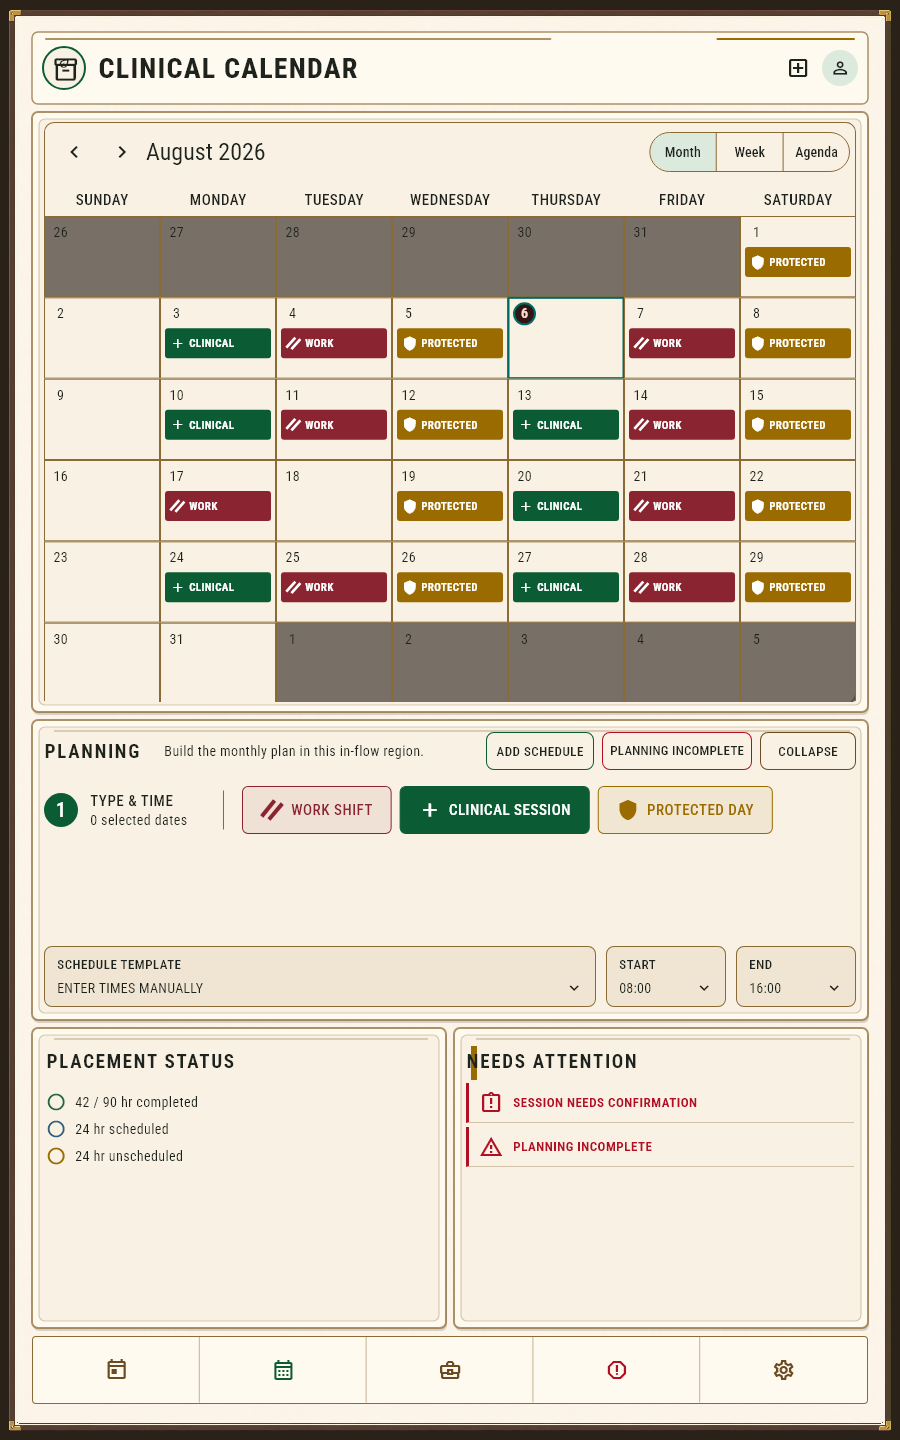
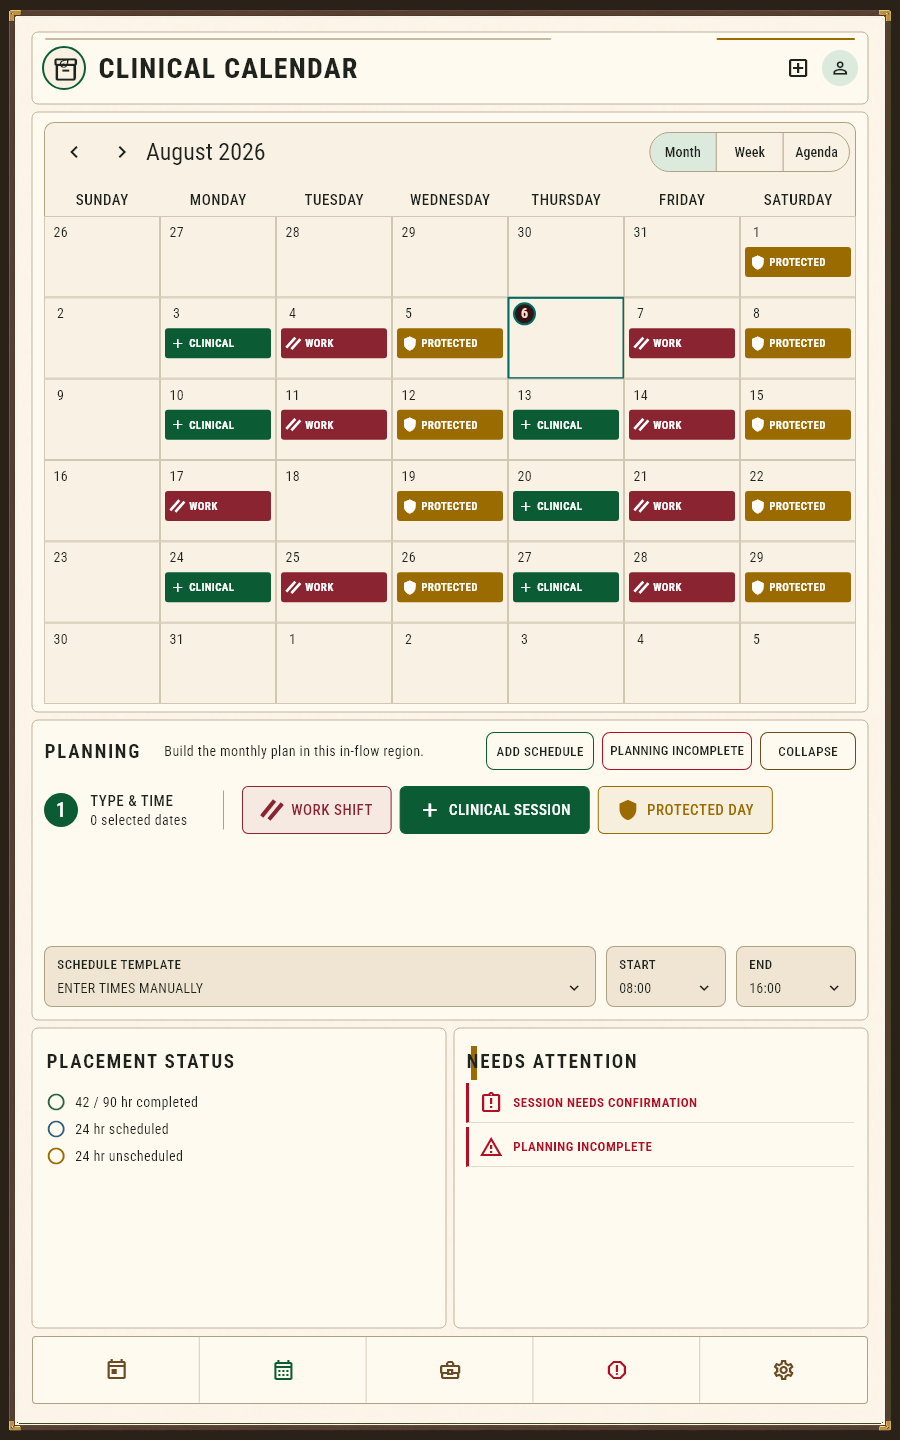
fix(theme): correct Field Archive border hierarchy

diff --git a/packages/clinical_calendar_presentation/lib/src/heritage_field_notes_shell.dart b/packages/clinical_calendar_presentation/lib/src/heritage_field_notes_shell.dart
@@ -133,7 +133,7 @@ final class HeritageFieldNotesApplicationShell extends StatelessWidget {
               return Stack(
                 children: [
                   const Positioned.fill(
-                    child: ColoredBox(color: HeritageFieldNotesColors.canvas),
+                    child: ColoredBox(color: HeritageFieldNotesColors.surface),
                   ),
                   Positioned.fromRect(
                     rect: resolveRegion(_heritageFieldNotesCrownRegion),
@@ -182,7 +182,7 @@ final class HeritageFieldNotesApplicationShell extends StatelessWidget {
                     rect: resolveRegion(_heritageFieldNotesInsightRegion),
                     child: _HeritageFieldNotesConsoleBay(
                       key: const Key('heritage-field-notes-insight-bay'),
-                      accent: _HeritageFieldNotesBayAccent.brass,
+                      accent: _HeritageFieldNotesBayAccent.forest,
                       shape: _HeritageFieldNotesBayShape.insight,
                       child: slots.insightRail,
                     ),
@@ -383,22 +383,26 @@ final class _HeritageFieldNotesArchiveChassisPainter extends CustomPainter {
         ).createShader(outer),
     );
 
-    canvas.drawRect(
+    final pageWindowRRect = RRect.fromRectAndRadius(
       pageWindow,
+      const Radius.circular(9),
+    );
+    canvas.drawRRect(
+      pageWindowRRect,
       Paint()
         ..color = darkestWalnut
         ..style = PaintingStyle.stroke
         ..strokeWidth = 4,
     );
-    canvas.drawRect(
-      pageWindow.deflate(3),
+    canvas.drawRRect(
+      RRect.fromRectAndRadius(pageWindow.deflate(3), const Radius.circular(7)),
       Paint()
         ..color = agedBrass
         ..style = PaintingStyle.stroke
         ..strokeWidth = 2.5,
     );
-    canvas.drawRect(
-      pageWindow.deflate(7),
+    canvas.drawRRect(
+      RRect.fromRectAndRadius(pageWindow.deflate(7), const Radius.circular(5)),
       Paint()
         ..color = brassHighlight.withValues(alpha: .72)
         ..style = PaintingStyle.stroke
@@ -517,41 +521,26 @@ final class _HeritageFieldNotesConsoleBay extends StatelessWidget {
         child: child,
       ),
     );
-    return DecoratedBox(
-      decoration: BoxDecoration(
-        borderRadius: BorderRadius.circular(6),
-        boxShadow: const [
-          BoxShadow(
-            color: Color(0x2B2B2117),
-            blurRadius: 6,
-            offset: Offset(1, 3),
-          ),
-        ],
+    return CustomPaint(
+      painter: _HeritageFieldNotesConsoleBayPainter(
+        raised: colors.structureRaised,
+        border: colors.insetBorder,
+        accent: accentColor,
+        shape: shape,
       ),
-      child: CustomPaint(
-        painter: _HeritageFieldNotesConsoleBayPainter(
-          surface: colors.structure,
-          raised: colors.structureRaised,
-          border: colors.insetBorder,
-          accent: accentColor,
-          shape: shape,
-        ),
-        child: content,
-      ),
+      child: content,
     );
   }
 }
 
 final class _HeritageFieldNotesConsoleBayPainter extends CustomPainter {
   const _HeritageFieldNotesConsoleBayPainter({
-    required this.surface,
     required this.raised,
     required this.border,
     required this.accent,
     required this.shape,
   });
 
-  final Color surface;
   final Color raised;
   final Color border;
   final Color accent;
@@ -565,18 +554,9 @@ final class _HeritageFieldNotesConsoleBayPainter extends CustomPainter {
     canvas.drawPath(
       outer,
       Paint()
-        ..color = border.withValues(alpha: .72)
+        ..color = border.withValues(alpha: .78)
         ..style = PaintingStyle.stroke
-        ..strokeWidth = 2,
-    );
-    final inner = _heritageFieldNotesBayPath(size, shape, inset: 7);
-    canvas.drawPath(inner, Paint()..color = surface);
-    canvas.drawPath(
-      inner,
-      Paint()
-        ..color = border.withValues(alpha: .32)
-        ..style = PaintingStyle.stroke
-        ..strokeWidth = 1.2,
+        ..strokeWidth = 1,
     );
     if (shape == _HeritageFieldNotesBayShape.insight) {
       canvas.drawRect(
@@ -584,20 +564,12 @@ final class _HeritageFieldNotesConsoleBayPainter extends CustomPainter {
         Paint()..color = accent,
       );
     }
-    canvas.drawLine(
-      const Offset(22, 11),
-      Offset(size.width - 18, 11),
-      Paint()
-        ..color = border.withValues(alpha: .55)
-        ..strokeWidth = 1,
-    );
   }
 
   @override
   bool shouldRepaint(
     covariant _HeritageFieldNotesConsoleBayPainter oldDelegate,
   ) =>
-      oldDelegate.surface != surface ||
       oldDelegate.raised != raised ||
       oldDelegate.border != border ||
       oldDelegate.accent != accent ||
@@ -627,7 +599,7 @@ final class _HeritageFieldNotesBayClipper extends CustomClipper<Path> {
   final _HeritageFieldNotesBayShape shape;
 
   @override
-  Path getClip(Size size) => _heritageFieldNotesBayPath(size, shape, inset: 10);
+  Path getClip(Size size) => _heritageFieldNotesBayPath(size, shape, inset: 1);
 
   @override
   bool shouldReclip(covariant _HeritageFieldNotesBayClipper oldClipper) =>
@@ -808,9 +780,9 @@ final class _HeritageFieldNotesCrownPainter extends CustomPainter {
     canvas.drawPath(
       path,
       Paint()
-        ..color = border.withValues(alpha: .72)
+        ..color = border.withValues(alpha: .82)
         ..style = PaintingStyle.stroke
-        ..strokeWidth = 1.5,
+        ..strokeWidth = 1,
     );
     final brassPaint = Paint()
       ..color = brass

diff --git a/packages/clinical_calendar_presentation/lib/src/calendar/calendar_period_view.dart b/packages/clinical_calendar_presentation/lib/src/calendar/calendar_period_view.dart
@@ -1689,7 +1689,9 @@ final class _DayCellPainter extends CustomPainter {
     final rect = Offset.zero & size;
     final background = Paint()
       ..color = outside
-          ? colors.canvas.withValues(alpha: .62)
+          ? entryChipMode
+                ? colors.structure
+                : colors.canvas.withValues(alpha: .62)
           : entryChipMode
           ? colors.structure
           : protected
@@ -1723,7 +1725,11 @@ final class _DayCellPainter extends CustomPainter {
       Paint()
         ..style = PaintingStyle.stroke
         ..strokeWidth = today ? math.max(2, selectionWidth) : 1
-        ..color = today ? todayAccent : colors.insetBorder,
+        ..color = today
+            ? todayAccent
+            : entryChipMode
+            ? colors.insetBorder.withValues(alpha: .52)
+            : colors.insetBorder,
     );
     if (selected) {
       final paint = Paint()

diff --git a/packages/clinical_calendar_presentation/lib/src/heritage_field_notes_theme.dart b/packages/clinical_calendar_presentation/lib/src/heritage_field_notes_theme.dart
@@ -8,7 +8,9 @@ abstract final class HeritageFieldNotesColors {
   static const canvas = Color(0xFF2A2118);
   static const surface = Color(0xFFF8F1E4);
   static const surfaceRaised = Color(0xFFFFFAF0);
-  static const insetBorder = Color(0xFF8A6A35);
+  // Interior rules are intentionally quiet parchment separators. Brass is
+  // reserved for the outer book-board chassis and physical hardware.
+  static const insetBorder = Color(0xFFAFA184);
   static const primaryText = Color(0xFF1F231D);
   static const secondaryText = Color(0xFF554C3D);
   static const accentPrimary = Color(0xFF0B5C34);

diff --git a/docs/themes/acceptance/proofs/heritage-field-notes/README.md b/docs/themes/acceptance/proofs/heritage-field-notes/README.md
@@ -32,7 +32,10 @@ untouched 1536 by 1024 concept (excluding comparison labels): the
 deep walnut-and-brass book-board chassis, two-line archival crown, tall
 placement bays, central Calendar and Planning hierarchy, right progress and
 attention rail, indexed hardware, and bottom navigation deck. Field Archive
-also opts into the concept's uppercase archival month toolbar, forest-selected
+reserves dark walnut and bright brass for that outer chassis: the live page is
+backed by parchment and its interior bays use single quiet rules without
+nested rims or cast shadows, matching the concept's border hierarchy. It also
+opts into the concept's uppercase archival month toolbar, forest-selected
 period controls, abbreviated weekday row, filled semantic Calendar bars, and
 bottom legend while every other theme keeps its established default. Its
 theme-owned Roboto Condensed variable font is distributed with the upstream
@@ -43,9 +46,10 @@ controls, medical-cross/work-stripe/shield marks, preceptor action, detailed
 attention rows, Due markers, navigation colors, and indexed hardware. The
 renderer owns no clinical state, persistence, validation, or workflow logic.
 
-The earlier `30d7401`, `5deb099`, and `d3e2a89` proofs were rejected by the
-maintainer and are retained under their matching `rejected/` directories only
-as historical evidence. None is an acceptance or golden baseline.
+The earlier `30d7401`, `5deb099`, `d3e2a89`, and `2e8e544` proofs were rejected
+by the maintainer and are retained under their matching `rejected/`
+directories only as historical evidence. None is an acceptance or golden
+baseline.
 
 ## Original frame creation record
 
@@ -65,10 +69,10 @@ corners, uses source cuts 120/145/120/170, and has SHA-256
 
 ```text
 bf131014c71df2adc4b34b70c99e3e5ed94e54f0e1753d3979d0b6e85da66c75  approved-concept-landscape.png
-de261607c7c01dead43e1289b560785ddbac3340c46ba848cb5b39b1643150be  landscape-concept-vs-runtime.png
-7c4151e4fe7763374d5c7841e154a8c9c286d15911c887cddaddeb4234f7b546  runtime-landscape-1536x1024.png
-c29ae494efadbf3d3cd9624e1fc2b59570b9e8e8fee077803a36ce434c003ea3  runtime-portrait-900x1440.png
-15a03a5ee366a868b98b125d869ca310b159f44c6afacd2f34d4ffbebfdb1c6a  runtime-portrait-200-percent-900x1440.png
+3cadb3e098f4b058ff3f0f507c5cf34c29e6891f91da9bc75476feb3f9221622  landscape-concept-vs-runtime.png
+f2a0296ded836b0288ce075f9d9a05d7920fbfe156763b5ab0f2a7ab82d8597f  runtime-landscape-1536x1024.png
+c0b8d9cb86cb962ead8154e2cfe75bc58725982a4b576fe62b2ec61908894073  runtime-portrait-900x1440.png
+f2e0fb3f7bd8049bc88732f06c0cefc540fdd39a45cfd99f8f403ac900624220  runtime-portrait-200-percent-900x1440.png
 ```
 
 ## Physical Android-tablet acceptance

diff --git a/docs/themes/acceptance/proofs/heritage-field-notes/rejected/2e8e544/README.md b/docs/themes/acceptance/proofs/heritage-field-notes/rejected/2e8e544/README.md
@@ -1,0 +1,10 @@
+# Rejected Field Archive proof: 2e8e544
+
+The maintainer rejected this candidate because its border hierarchy did not
+match approved concept #118. The runtime wrapped each interior bay in a dark,
+double-line rim with a shadow, making the composition read as several boxed
+modules. The concept instead uses a substantial walnut-and-brass outer
+book-board chassis with quiet, thin parchment separators inside it.
+
+These files are retained only as historical evidence. They are not an
+acceptance baseline and must not be reused as current goldens.
